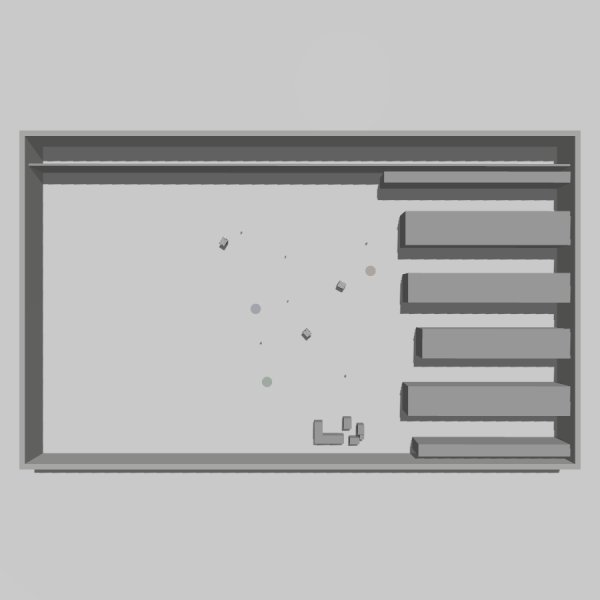
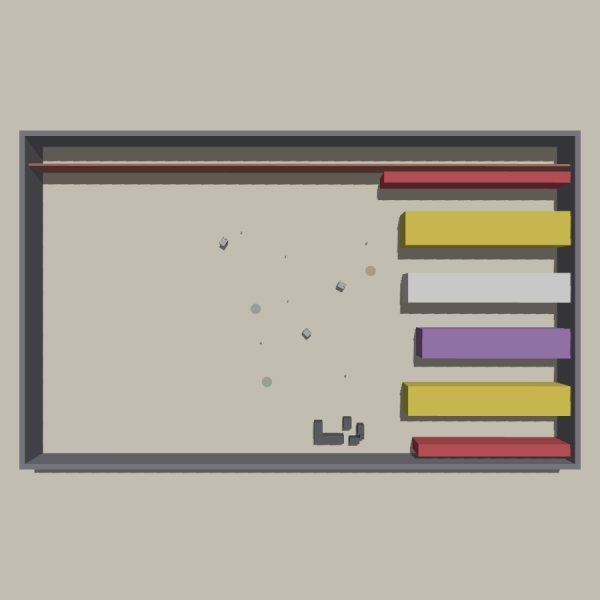
README: 8 mundos, capturas nuevas y herramientas de generacion/repintado
Mosaico de cenitales rehecho (sin robotnik_lab, con pallet_warehouse,
parking_lot y supermarket); capturas actualizadas de tugbot (sin vigas)
y de rubber_factory/electrical_substation repintados.

diff --git a/README.md b/README.md
@@ -2,7 +2,7 @@
 
 Simulación de **swarm robotics** sobre **ROS 2 Jazzy** + **Gazebo Harmonic**: un enjambre de **Summit XLS omnidireccionales (mecanum) con pinza y cámara RGB-D** que recoge basura y la lleva al depósito de su color. El objetivo final es grabar demostraciones y entrenar una política **ACT** (Action Chunking Transformer, imitation learning) que haga la tarea sola.
 
-![Cámara cenital de los 6 mundos](docs/img/worlds/mosaico_cenitales.jpg)
+![Cámara cenital de los 8 mundos](docs/img/worlds/mosaico_cenitales.jpg)
 
 ## Estado
 
@@ -12,8 +12,9 @@ Simulación de **swarm robotics** sobre **ROS 2 Jazzy** + **Gazebo Harmonic**: u
 | Escenario aleatorio con semilla (robots, basura, depósitos) | ✅ validado en vivo |
 | Ciclo de recogida clásico (planner greedy + RGB-D + `DetachableJoint`) | ✅ validado en `tugbot_warehouse` (1 robot 6/6, 3 robots 6/6, 0 colisiones) |
 | Clasificación por color, anti-arrastre, turno de descarga por depósito | ✅ validados en vivo (`color OK 4/4`, 0 colisiones) |
-| Set de **6 mundos** para variar el dataset | ✅ cargan sin errores, RTF 0.85–1.0, cámaras revisadas |
-| Ciclo completo con métricas en los 5 mundos nuevos | ⏳ pendiente |
+| Set de **8 mundos** para variar el dataset | ✅ cargan sin errores, RTF 0.83–1.0, cámaras revisadas |
+| Colocación aleatoria que esquiva la geometría de cada mundo | ✅ validada en vivo |
+| Ciclo completo con métricas en los mundos nuevos | ⏳ pendiente (en `pallet_warehouse` 2/4: falta un planificador global para los pasillos) |
 | El ciclo de dejado a veces se traba (reportado en vivo) | 🐛 abierto |
 | Pipeline rosbag → HDF5 para ACT | ✅ validado con test sintético; falta un bag real |
 | Grabar demostraciones y entrenar el ACT | ⏳ siguiente paso |
@@ -25,13 +26,13 @@ Simulación de **swarm robotics** sobre **ROS 2 Jazzy** + **Gazebo Harmonic**: u
 - **Pinza paralela + cámaras**: pinza de 2 dedos fija al frente (solo abre/cierra, la pieza viaja a ras de suelo), cámara RGB frontal (`/summitN/camera`) y cámara de profundidad co-localizada (`/summitN/camera/depth`). Control de los dedos con `gz_ros2_control`.
 - **Escenario aleatorio reproducible**: robots (posición y yaw), cajas de basura de 3 colores y depósitos del mismo color, con `seed` (`-1` = distinto cada vez).
 - **Ciclo de recogida autónomo** (`swarm_behavior`): planner centralizado greedy, navegación por campos potenciales que aprovecha el strafe, aproximación final por profundidad y agarre físico con `DetachableJoint` confirmado por ACK.
-- **6 mundos** vendorizados (sin Fuel ni internet), todos con la misma cámara cenital `/overhead/image`.
+- **8 mundos** vendorizados (sin Fuel ni internet), todos con la misma cámara cenital `/overhead/image`; tres de ellos generados por script (`pallet_warehouse`, `parking_lot`, `supermarket`).
 - **Teleop con mando PS5** y **conversor rosbag → HDF5** en el formato de ACT/ALOHA.
-- Herramientas de geometría: mapas occupancy/vectoriales de cada mundo, medición del hueco libre y recorte de mundos.
+- Herramientas de geometría: mapas occupancy/vectoriales de cada mundo, medición del hueco libre, recorte, repintado y generación de mundos.
 
 ## Los mundos
 
-Todos comparten nombre interno `world_demo` (salvo `empty_arena`), física `max_step_size=0.004`, los plugins Harmonic (`Sensors`, `Imu`, …) y una cámara cenital, para que el dataset salga homogéneo. Ninguno tiene techo: la cenital debe ver el suelo.
+Todos comparten nombre interno `world_demo` (salvo `empty_arena`), física `max_step_size=0.004`, los plugins Harmonic (`Sensors`, `Imu`, …) y una cámara cenital, para que el dataset salga homogéneo. Ninguno tiene techo: la cenital debe ver el suelo. En el decorado no hay verde, azul ni naranja: son los colores de la basura y los depósitos.
 
 | Mundo | Entorno | `center_x`, `center_y` | `area_half` |
 |---|---|---|---|
@@ -44,7 +45,9 @@ Todos comparten nombre interno `world_demo` (salvo `empty_arena`), física `max_
 | `parking_lot` | aparcamiento exterior, 30×50 m | 0, 0 | 24 |
 | `supermarket` | supermercado con 5 personas caminando, 30×50 m | 0, 0 | 24 |
 
-> ⚠ En `colored_warehouse` el centro y el `area_half` **no son opcionales**: con el centro por defecto el hueco libre es mínimo (la cruz de paredes pasa por el origen). La colocación esquiva la geometría usando `maps/<mundo>.pgm` de `scripts/world_maps.py`.
+> ⚠ En `colored_warehouse` el centro y el `area_half` **no son opcionales**: con el centro por defecto el hueco libre es mínimo (la cruz de paredes pasa por el origen).
+
+La colocación aleatoria carga `maps/<mundo>.pgm` (de `scripts/world_maps.py`) y rechaza toda pose a menos de ~1 m de un obstáculo, así que en los mundos generados se puede usar `area_half:=24` y el mapa recorta a los pasillos libres.
 
 Capturas de la simulación (izquierda: cámara cenital `/overhead/image`; derecha: cámara frontal del robot `/summit0/camera`).
 
@@ -55,7 +58,7 @@ Capturas de la simulación (izquierda: cámara cenital `/overhead/image`; derech
 <img src="docs/img/worlds/tugbot_warehouse_front.jpg" width="34%">
 </p>
 
-Almacén del Tugbot de MovAi con los obstáculos quitados: queda el edificio, sus paredes y el suelo libre. En el detalle del centro se ven los 3 robots, las cajas y los discos de depósito.
+Almacén del Tugbot de MovAi con los obstáculos y las vigas del techo quitados: queda el edificio, sus paredes y el suelo libre. En el detalle del centro se ven los 3 robots, las cajas y los discos de depósito.
 
 ### `colored_warehouse`
 <p>
@@ -71,7 +74,7 @@ Fuel `hboc/simple_colored_warehouse`: cuatro cuadrantes con estanterías de colo
 <img src="docs/img/worlds/electrical_substation_front.jpg" width="52%">
 </p>
 
-Exterior de Robotnik, recortado a 30×50 m con `crop_world.py`. En el recorte se quitó un plano de colisión infinito (el marcador AR de la estación de carga) que actuaba de muro invisible y bajaba el RTF.
+Exterior de Robotnik, recortado a 30×50 m con `crop_world.py`. En el recorte se quitó un plano de colisión infinito (el marcador AR de la estación de carga) que actuaba de muro invisible y bajaba el RTF. Repintado con `paint_worlds.py`: patio de asfalto, casa amarilla, edificios de ladrillo.
 
 ### `rubber_factory`
 <p>
@@ -79,7 +82,7 @@ Exterior de Robotnik, recortado a 30×50 m con `crop_world.py`. En el recorte se
 <img src="docs/img/worlds/rubber_factory_front.jpg" width="52%">
 </p>
 
-Nave industrial `emka_factory` de Robotnik, recortada a 30×50 m: nave abierta con una fila de máquinas.
+Nave industrial `emka_factory` de Robotnik, recortada a 30×50 m: nave abierta con una fila de máquinas. Repintada con `paint_worlds.py`: suelo de epoxi crema y cada máquina de un color.
 
 ### `empty_arena`
 <p>
@@ -88,6 +91,30 @@ Nave industrial `emka_factory` de Robotnik, recortada a 30×50 m: nave abierta c
 </p>
 
 Arena vacía de control. Su `<world>` se llama `empty_arena`, así que el ciclo de recogida necesita `world:=empty_arena`.
+
+### `pallet_warehouse`
+<p>
+<img src="docs/img/worlds/pallet_warehouse_overhead.jpg" width="45%">
+<img src="docs/img/worlds/pallet_warehouse_front.jpg" width="52%">
+</p>
+
+Almacén de paletizado generado por `gen_pallet_warehouse.py`: cuatro bloques de estanterías con pasillos de 3.4 m y una zona central con transportador, paletizador y enfardadora. El visual es una sola malla COLLADA (RTF 0.88 con 3 robots). Es el mundo que demuestra que hace falta un planificador global: con campos potenciales un robot se queda clavado contra la estantería si la pieza está en el pasillo de al lado.
+
+### `parking_lot`
+<p>
+<img src="docs/img/worlds/parking_lot_overhead.jpg" width="45%">
+<img src="docs/img/worlds/parking_lot_front.jpg" width="52%">
+</p>
+
+Aparcamiento exterior generado por `gen_parking_lot.py`: asfalto con plazas en batería, 46 coches al 65 % de ocupación, dos calles y una transversal con paso de cebra, farolas y caseta de cobro.
+
+### `supermarket`
+<p>
+<img src="docs/img/worlds/supermarket_overhead.jpg" width="45%">
+<img src="docs/img/worlds/supermarket_front.jpg" width="52%">
+</p>
+
+Supermercado generado por `gen_supermarket.py`: góndolas con producto de colores, neveras, islas de fruta, cajas de cobro y **5 personas caminando** en bucle. Las personas (`<actor>`) no tienen colisión física en Harmonic, pero el LiDAR y las cámaras sí las ven; el mapa marca su recorrido como ocupado para no colocar nada encima. La animación se recoloreó (venía con jersey verde y vaqueros azules, colores de la basura).
 
 ## Requisitos
 
@@ -185,7 +212,13 @@ Por defecto: `qpos = [yaw, ancho_pinza]` (egocéntrico, para una política compa
 /usr/bin/python3 swarm_ws/scripts/crop_world.py <mundo> --center X Y --size 30 50 [--rotate90]   # recorta a una ventana y cierra con paredes
 ```
 
-`world_geometry.py` carga toda la colisión y el visual de un SDF en frame mundo (poses 6D, STL, COLLADA, primitivas, actores), y los otros dos scripts se apoyan en él.
+```bash
+/usr/bin/python3 swarm_ws/scripts/paint_worlds.py             # paleta propia de rubber_factory y electrical_substation (después de crop_world.py)
+/usr/bin/python3 swarm_ws/scripts/gen_pallet_warehouse.py     # también gen_parking_lot.py y gen_supermarket.py
+/usr/bin/python3 swarm_ws/scripts/world_maps.py --worlds pallet_warehouse --write && (cd swarm_ws && colcon build --symlink-install)
+```
+
+`world_geometry.py` carga toda la colisión y el visual de un SDF en frame mundo (poses 6D, STL, COLLADA, primitivas, actores), y el resto de scripts se apoyan en él. Los generadores `gen_*.py` usan `world_builder.py`: el visual va a una malla COLLADA con un material por color y la colisión a primitivas. Tras generar o tocar un mundo hay que regenerar su mapa y recompilar.
 
 ## Demos anteriores (siguen en el código)
 
@@ -201,9 +234,9 @@ Por defecto: `qpos = [yaw, ancho_pinza]` (egocéntrico, para una política compa
 ```
 swarm_ws/
 ├── docker/                      # Dockerfile + compose (respaldo de portabilidad)
-├── scripts/                     # sim_native.sh, bag_to_act_hdf5.py, world_geometry/world_maps/crop_world.py
+├── scripts/                     # sim_native.sh, bag_to_act_hdf5.py, herramientas y generadores de mundos
 └── src/
-    ├── swarm_worlds/            # 6 mundos, launches, mapas, modelos vendorizados
+    ├── swarm_worlds/            # 8 mundos, launches, mapas, modelos vendorizados
     ├── swarm_behavior/          # planner, navegación, agarre RGB-D, pinza, teleop PS5, drones, RViz
     ├── swarm_description/       # minibot diff-drive
     ├── summit_xl_description/   # Summit XLS mecanum + pinza + cámaras, portado a Harmonic
